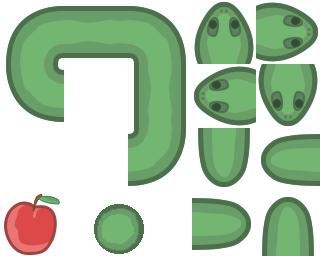
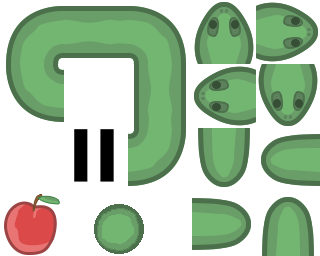
first edition

Changed region(s): [[0.3125, 0.5, 0.375, 0.7188], [0.2188, 0.5, 0.2812, 0.7188]]

diff --git a/core/src/com/mygdx/game/GamePlay.java b/core/src/com/mygdx/game/GamePlay.java
@@ -2,6 +2,7 @@ package com.mygdx.game;
 
 import com.badlogic.gdx.Gdx;
 import com.badlogic.gdx.Input;
+import com.badlogic.gdx.InputMultiplexer;
 import com.badlogic.gdx.Screen;
 import com.badlogic.gdx.graphics.OrthographicCamera;
 import com.badlogic.gdx.graphics.Pixmap;
@@ -9,7 +10,8 @@ import com.badlogic.gdx.graphics.Texture;
 import com.badlogic.gdx.graphics.g2d.SpriteBatch;
 import com.badlogic.gdx.graphics.g2d.TextureRegion;
 import com.badlogic.gdx.math.Vector2;
-import com.mygdx.game.desktop.SimpleDirectionGestureDetector;
+
+
 import java.util.ArrayList;
 import java.util.Random;
 
@@ -22,41 +24,47 @@ public class GamePlay implements Screen {
     private Vector2 food;
     private int time=0;
     private ArrayList<Vector2> turn,wall;
-    private ArrayList<String> turns;
     private Random rand;
-    private int steps=10;
+    private int steps=10,score=0;
     private boolean pause=false;
     private boolean dontdraw;
     private String dir="",moveto="";
     private SpriteBatch batch;
+    private Texture texture;
+    InputMultiplexer inputMultiplexer;
 
+    private GameStage gamestage;
 
     private OrthographicCamera cam;
     GamePlay(SpriteBatch batch){
         this.batch=batch;
         turn=new ArrayList<Vector2>();
-        turns=new ArrayList<String>();
-
             wall=new ArrayList<Vector2>();
 
         array=new ArrayList<Vector2>();
-        for(int i=0; i<20; i++){
-//            array.add(new Vector2(-10,-10));
+        for(int i=0; i<4; i++){
+            array.add(new Vector2(-10,-10));
 
         }
     }
     private TextureRegion head,body,headup,bodyup,tail,tailup,foodtex;
     private Texture background,wallimg;
+
+
+
     @Override
     public void show() {
 
         cam = new OrthographicCamera(500,260);
+
+
         cam.position.set(new Vector2(500/2f,260/2f),1);
         cam.update();
 
 
         for (int i=0; i<26; i++){
             wall.add(new Vector2(i*20,0));
+            wall.add(new Vector2(i*20,220));
             wall.add(new Vector2(i*20,240));
         }
         for (int i=0; i<13; i++) {
@@ -65,18 +73,20 @@ public class GamePlay implements Screen {
         }
 
         background = new Texture("background.png");
-        head=new TextureRegion(new Texture("snake.png"),253 ,0,67,61);
-        headup=new TextureRegion(new Texture("snake.png"),187 ,0,67,61);
 
-        corner=new TextureRegion(new Texture("snake.png"),90 ,202,56,54);
+        texture=new Texture("snake.png");
+        head=new TextureRegion(texture,253 ,0,67,61);
+        headup=new TextureRegion(texture,187 ,0,67,61);
 
-        foodtex=new TextureRegion(new Texture("snake.png"),0 ,190,62,66);
+        corner=new TextureRegion(texture,90 ,202,56,54);
 
-        tailup=new TextureRegion(new Texture("snake.png"),195 ,128,56,64);
-        tail=new TextureRegion(new Texture("snake.png"),259 ,128,56,64);
+        foodtex=new TextureRegion(texture,0 ,190,62,66);
 
-        body=new TextureRegion(new Texture("snake.png"),66 ,0,56,63);
-        bodyup=new TextureRegion(new Texture("snake.png"),125 ,61,67,68);
+        tailup=new TextureRegion(texture,195 ,128,56,64);
+        tail=new TextureRegion(texture,259 ,128,56,64);
+
+        body=new TextureRegion(texture,66 ,0,56,63);
+        bodyup=new TextureRegion(texture,125 ,61,67,68);
 
 
         Pixmap pixel=new Pixmap(20,20, Pixmap.Format.RGB565);
@@ -90,23 +100,28 @@ public class GamePlay implements Screen {
         rand=new Random();
         food=new Vector2((rand.nextInt(23)+1)*20,(rand.nextInt(8)+1)*20);
 
+
         Cotroll();
+        gamestage=new GameStage(batch,2,this);
     }
 
     @Override
     public void render(float delta) {
         cam.update();
         batch.setProjectionMatrix(cam.combined);
-
         draw();
+        gamestage.drawstage(score);
+
 
         for (Vector2 v:wall){
-            if(v.x==x&&v.y==y)
-                System.out.println("loser");
+            if(v.x==x&&v.y==y&&
+                    !moveto.equals(""))
+                pause=true;
         }
         for(int i=0; i<array.size(); i++){
-            if((x==array.get(i).x&&y==array.get(i).y&&(i!=array.size()-1)))
-                System.out.println("loser");
+            if((x==array.get(i).x&&y==array.get(i).y&&(i!=array.size()-1))&&
+                !moveto.equals(""))
+                pause=true;
         }
 
         if(Gdx.input.isKeyJustPressed(Input.Keys.P)){
@@ -157,7 +172,6 @@ public class GamePlay implements Screen {
                     }
                 }
                 if(time>5){
-                    turns.add(moveto+","+dir);
                     moveto=dir;
                     turn.add(new Vector2(x,y));
 
@@ -187,15 +201,15 @@ public class GamePlay implements Screen {
         }
 
 
-
-
         if(x==food.x&&y==food.y){
-
-            for(int i=0;i<3; i++){
+            for(int i=0; i<20; i++)
             array.add(0,new Vector2(0,0));
-            }
             food=new Vector2((rand.nextInt(23)+1)*20,(rand.nextInt(8)+1)*20);
+            score=score+1;
         }
+        if(array.contains(food))
+            food=new Vector2((rand.nextInt(23)+1)*20,(rand.nextInt(8)+1)*20);
+
         if(!pause)
         time++;
     }
@@ -279,9 +293,13 @@ public class GamePlay implements Screen {
             batch.end();
         }
     }
+    public void stop(){
+        pause=!pause;
+    }
     private void Cotroll(){
+        inputMultiplexer = new InputMultiplexer();
 
-        Gdx.input.setInputProcessor(new SimpleDirectionGestureDetector(new SimpleDirectionGestureDetector.DirectionListener() {
+        inputMultiplexer.addProcessor(new SimpleDirectionGestureDetector(new SimpleDirectionGestureDetector.DirectionListener() {
             @Override
             public void onLeft() {
             if(!dir.equals("right")){
@@ -306,17 +324,20 @@ public class GamePlay implements Screen {
                     if(!dir.equals("up")){
                         dir="down";
             }}
-            }));
+
+        }));
+
+        Gdx.input.setInputProcessor(inputMultiplexer);
+
     }
 
     @Override
     public void resize(int width, int height) {
-
     }
 
     @Override
     public void pause() {
-
+        pause=true;
     }
 
     @Override
@@ -326,11 +347,12 @@ public class GamePlay implements Screen {
 
     @Override
     public void hide() {
-
+        pause=true;
     }
 
     @Override
     public void dispose() {
-
+        background.dispose();
+        texture.dispose();
     }
 }

diff --git a/core/src/com/mygdx/game/GameStage.java b/core/src/com/mygdx/game/GameStage.java
@@ -1,0 +1,81 @@
+package com.mygdx.game;
+
+import com.badlogic.gdx.Gdx;
+import com.badlogic.gdx.InputMultiplexer;
+import com.badlogic.gdx.graphics.Color;
+import com.badlogic.gdx.graphics.Texture;
+import com.badlogic.gdx.graphics.g2d.Batch;
+import com.badlogic.gdx.graphics.g2d.BitmapFont;
+import com.badlogic.gdx.graphics.g2d.TextureRegion;
+
+import com.badlogic.gdx.scenes.scene2d.InputEvent;
+import com.badlogic.gdx.scenes.scene2d.InputListener;
+import com.badlogic.gdx.scenes.scene2d.Stage;
+import com.badlogic.gdx.scenes.scene2d.ui.Image;
+import com.badlogic.gdx.scenes.scene2d.ui.Label;
+import com.badlogic.gdx.scenes.scene2d.ui.Table;
+
+import com.badlogic.gdx.utils.viewport.StretchViewport;
+
+
+public class GameStage {
+    private Batch batch;
+    private int score;
+    public Stage stage;
+    private Texture img;
+    private Label label;
+    public GameStage(Batch batch, int score, final GamePlay main){
+        this.score=score;
+        this.batch=batch;
+        img =new Texture(Gdx.files.internal("stage.png"));
+        Texture texture=new Texture("snake.png");
+        TextureRegion foodtex=new TextureRegion(texture,0 ,190,62,66);
+        Image pause=new Image(new TextureRegion(texture,73 ,126,43,57));
+
+
+
+        Image im=new Image(img);
+        stage = new Stage(new StretchViewport(500,260),batch);
+
+
+//        Gdx.input.setInputProcessor(main.inputMultiplexer);
+
+        BitmapFont font=new BitmapFont();
+         label=new Label(" : "+0+"",new Label.LabelStyle(font, Color.BLACK));
+        Table table=new Table();
+
+
+        table.top();
+        table.left();
+        table.setPosition(0,250);
+        table.pack();
+        table.add().size(30,20);
+        table.add(pause).size(20,20);
+        table.add().size(150,20).right();
+        table.add(new Image(foodtex)).size(20,20);
+//        table.add(im);
+        table.add(label);
+        stage.addActor(table);
+//        stage.getViewport().update(500,260, true);
+        stage.setDebugAll(true);
+
+        main.inputMultiplexer.addProcessor(stage);
+
+        pause.addListener(new InputListener(){
+            @Override
+            public boolean touchDown(InputEvent event, float x, float y, int pointer, int button) {
+
+                main.stop();
+
+                return true;
+            }
+        });
+    }
+
+    public void drawstage(int score){
+        label.setText(" : "+score);
+        stage.act();
+        stage.draw();
+    }
+
+}

diff --git a/core/src/com/mygdx/game/SimpleDirectionGestureDetector.java b/core/src/com/mygdx/game/SimpleDirectionGestureDetector.java
@@ -1,4 +1,4 @@
-package com.mygdx.game.desktop;
+package com.mygdx.game;
 
 import com.badlogic.gdx.input.GestureDetector;
 
@@ -17,7 +17,7 @@ public class SimpleDirectionGestureDetector extends GestureDetector {
         super(new DirectionGestureListener(directionListener));
     }
 
-    private static class DirectionGestureListener extends GestureAdapter{
+    private static class DirectionGestureListener extends GestureDetector.GestureAdapter {
         DirectionListener directionListener;
 
         public DirectionGestureListener(DirectionListener directionListener){
